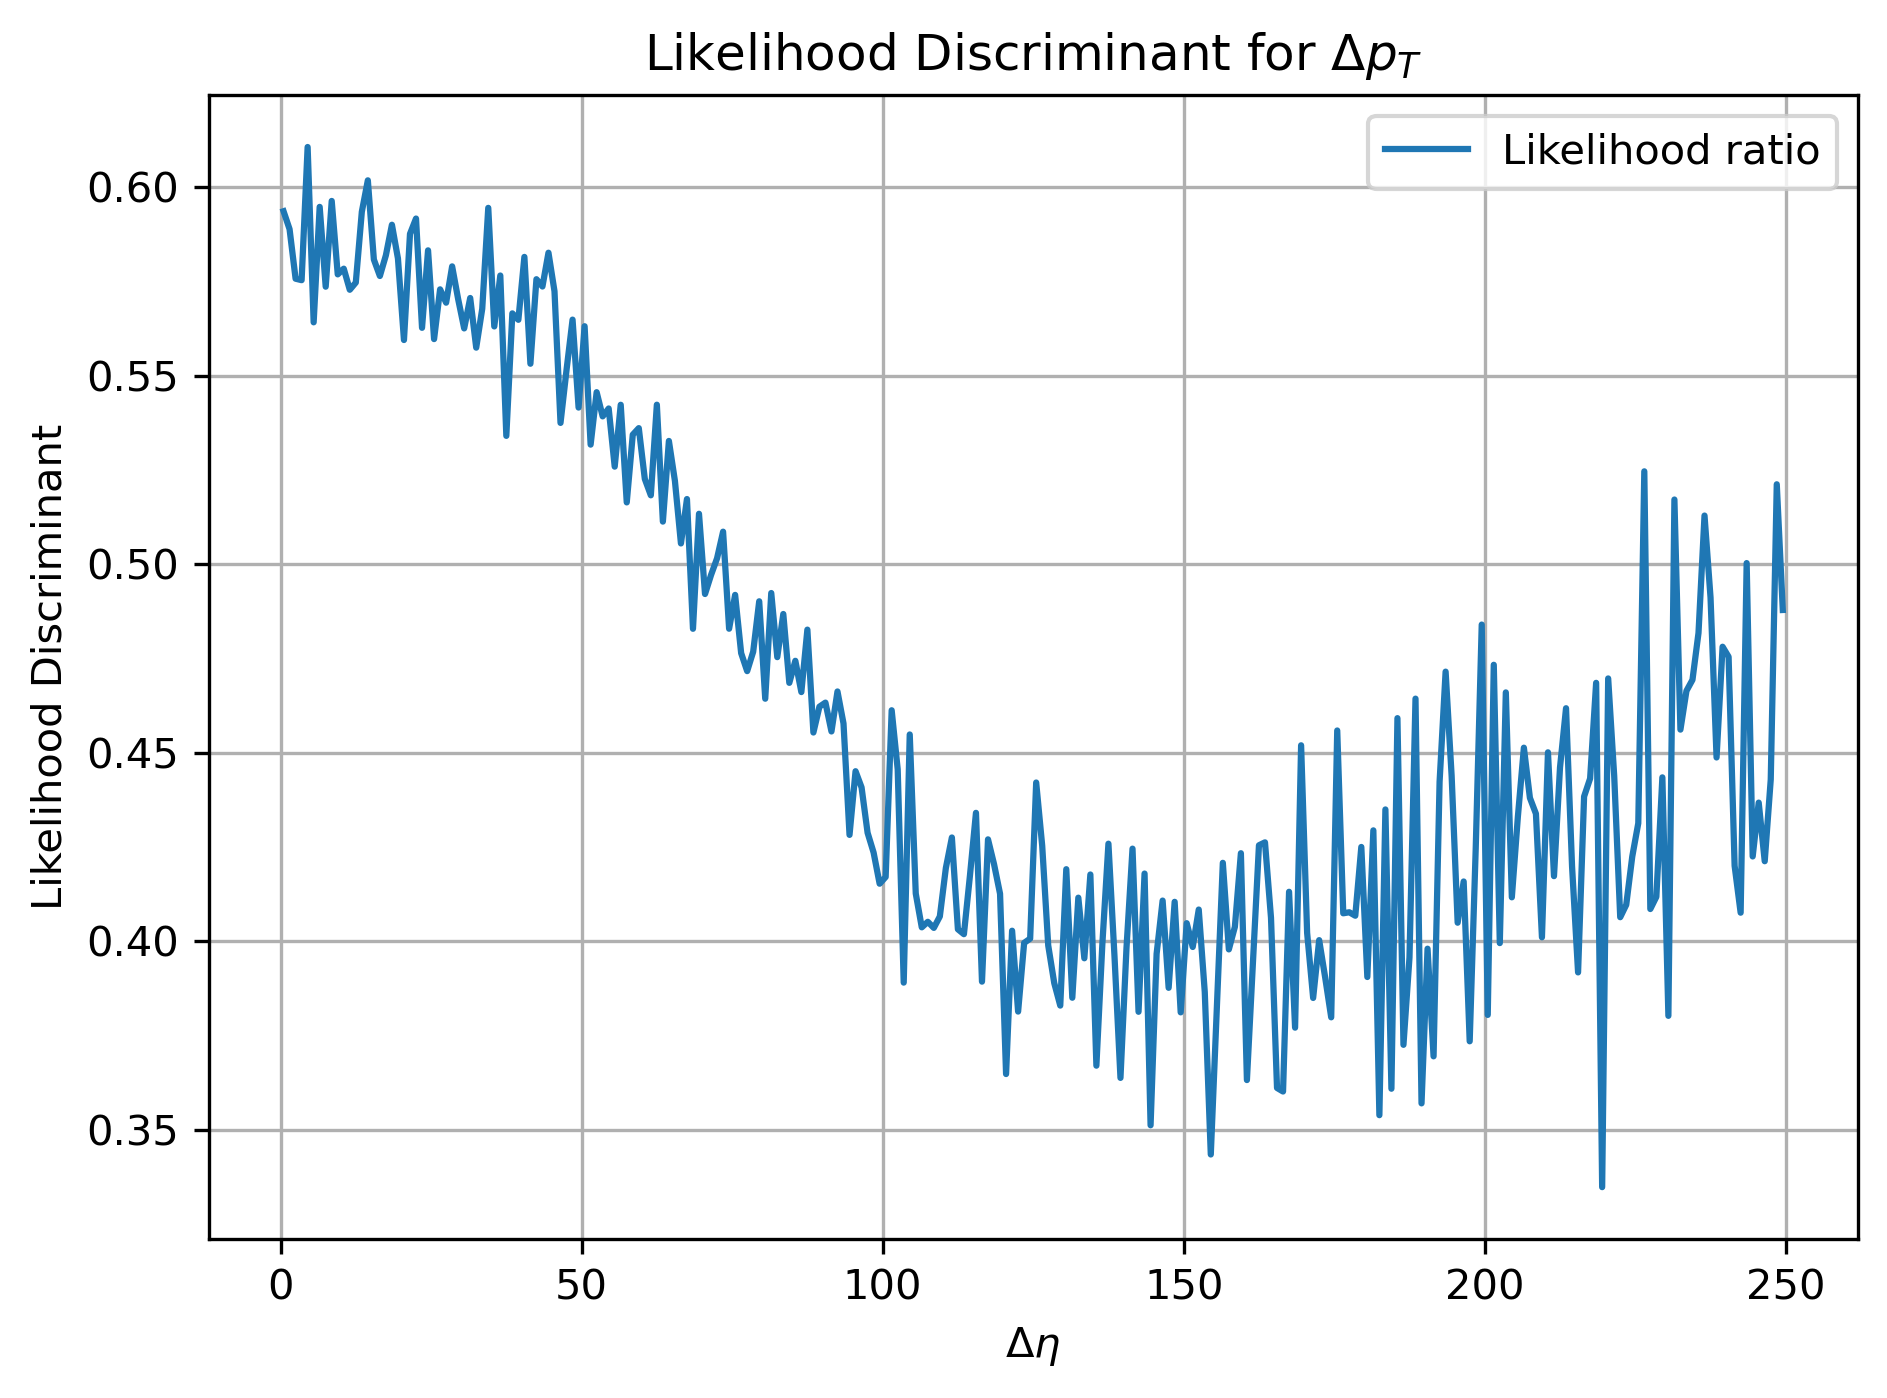
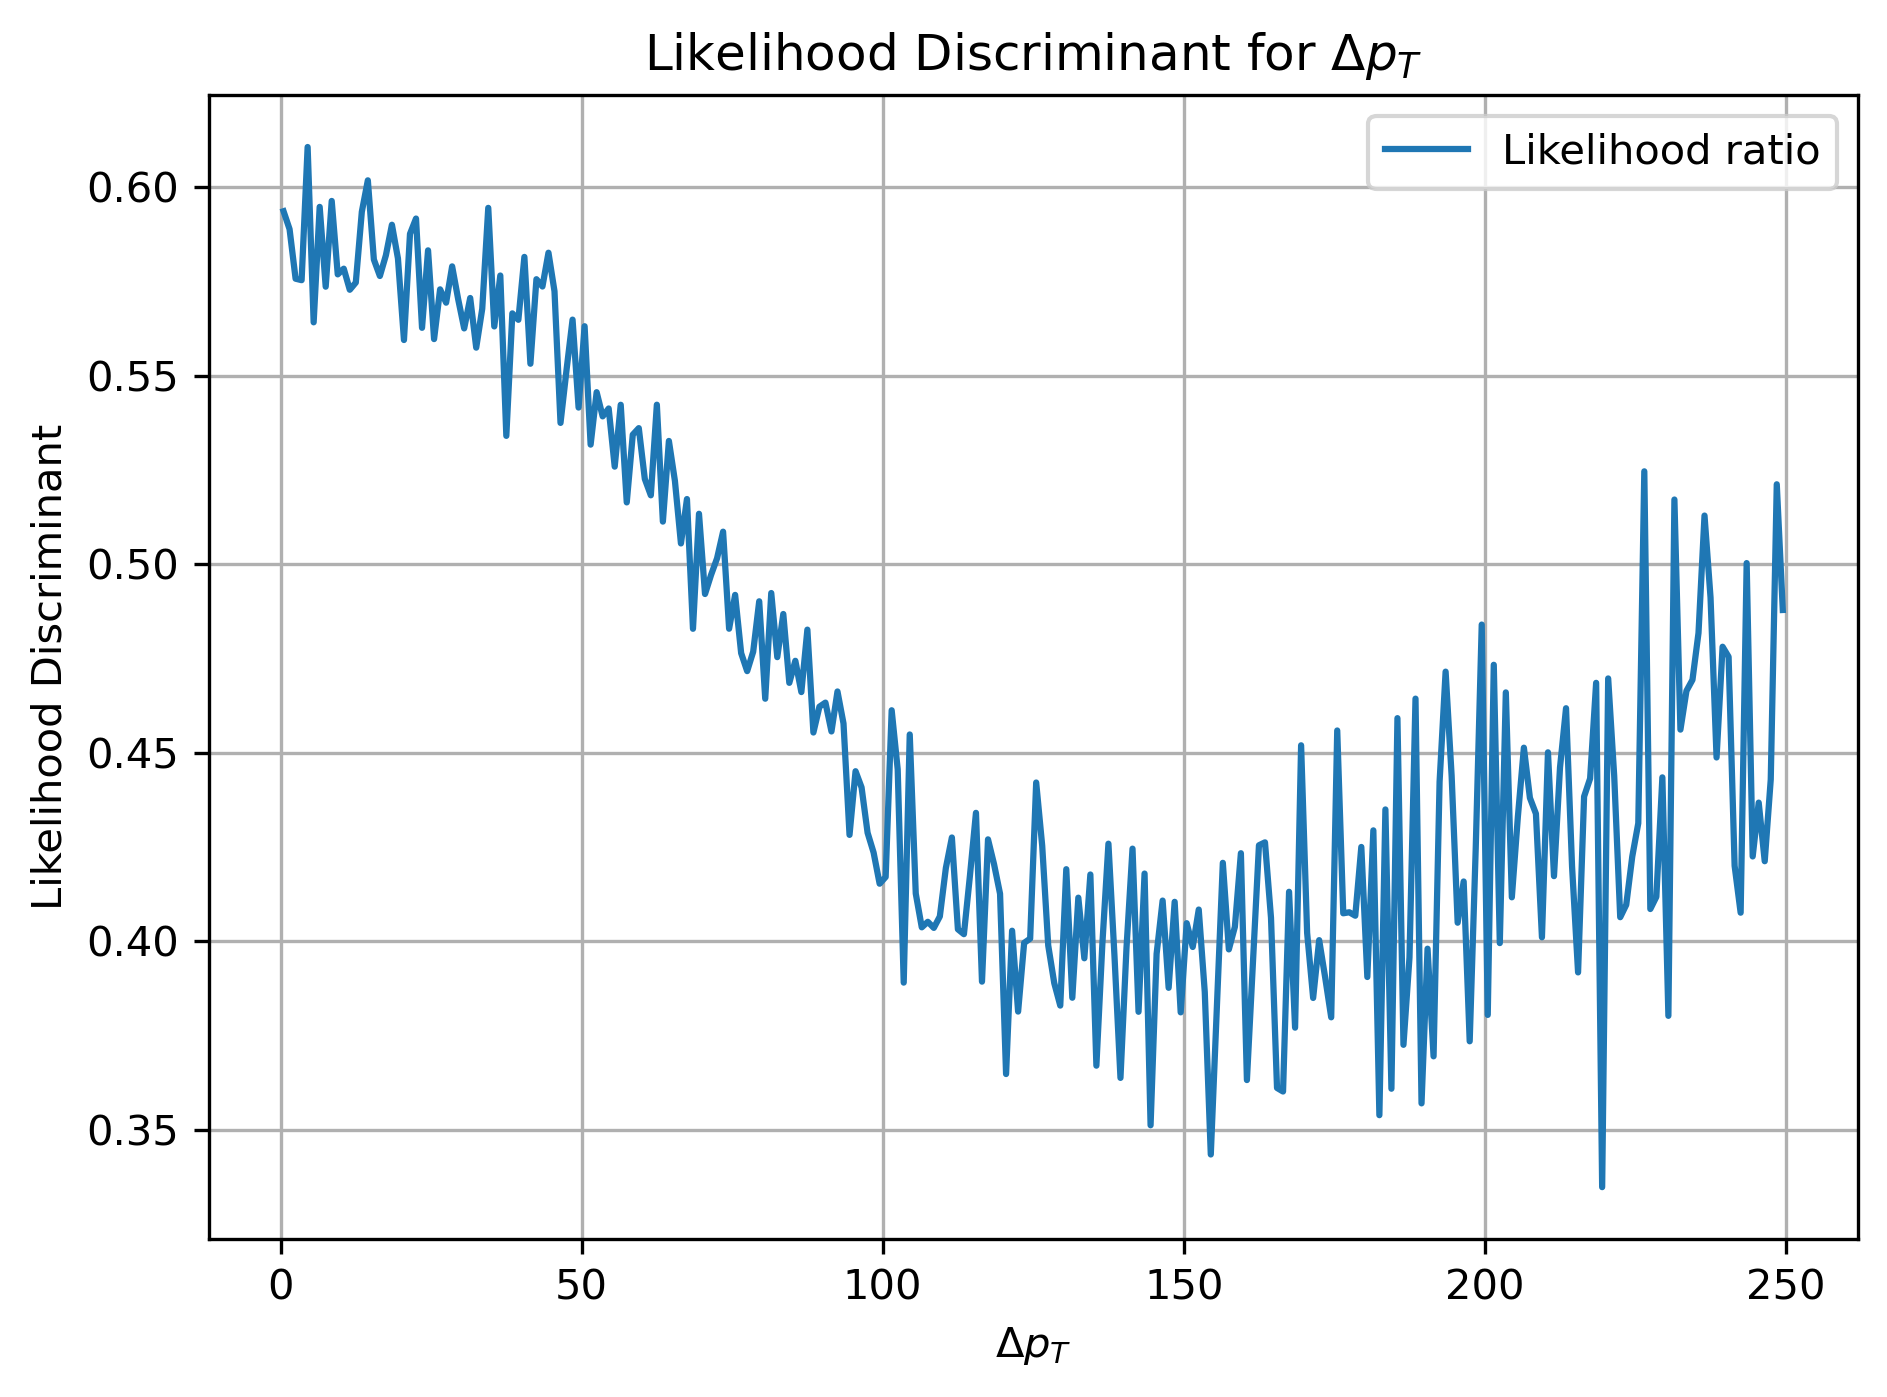
Changed typo in

Changed region(s): [[0.5225, 0.9542, 0.584, 0.985], [0.0615, 0.8003, 0.0922, 0.8311], [0.0, 0.554, 0.0307, 0.5848]]

diff --git a/macros/Deltas/Likelihood/Likelihood.py b/macros/Deltas/Likelihood/Likelihood.py
@@ -116,7 +116,7 @@ for varname,info in variables.items():
 	safename = info['sig_hist'].split('_zg')[0]
 	# --- Plotting ---
 	plt.plot(x_vals,likelihoods,label='Likelihood ratio')
-	plt.xlabel(r'$\Delta\eta$')
+	plt.xlabel(info['xlabel'])
 	plt.ylabel('Likelihood Discriminant')
 	plt.title(f'Likelihood Discriminant for {varname}')
 	plt.grid(True)
